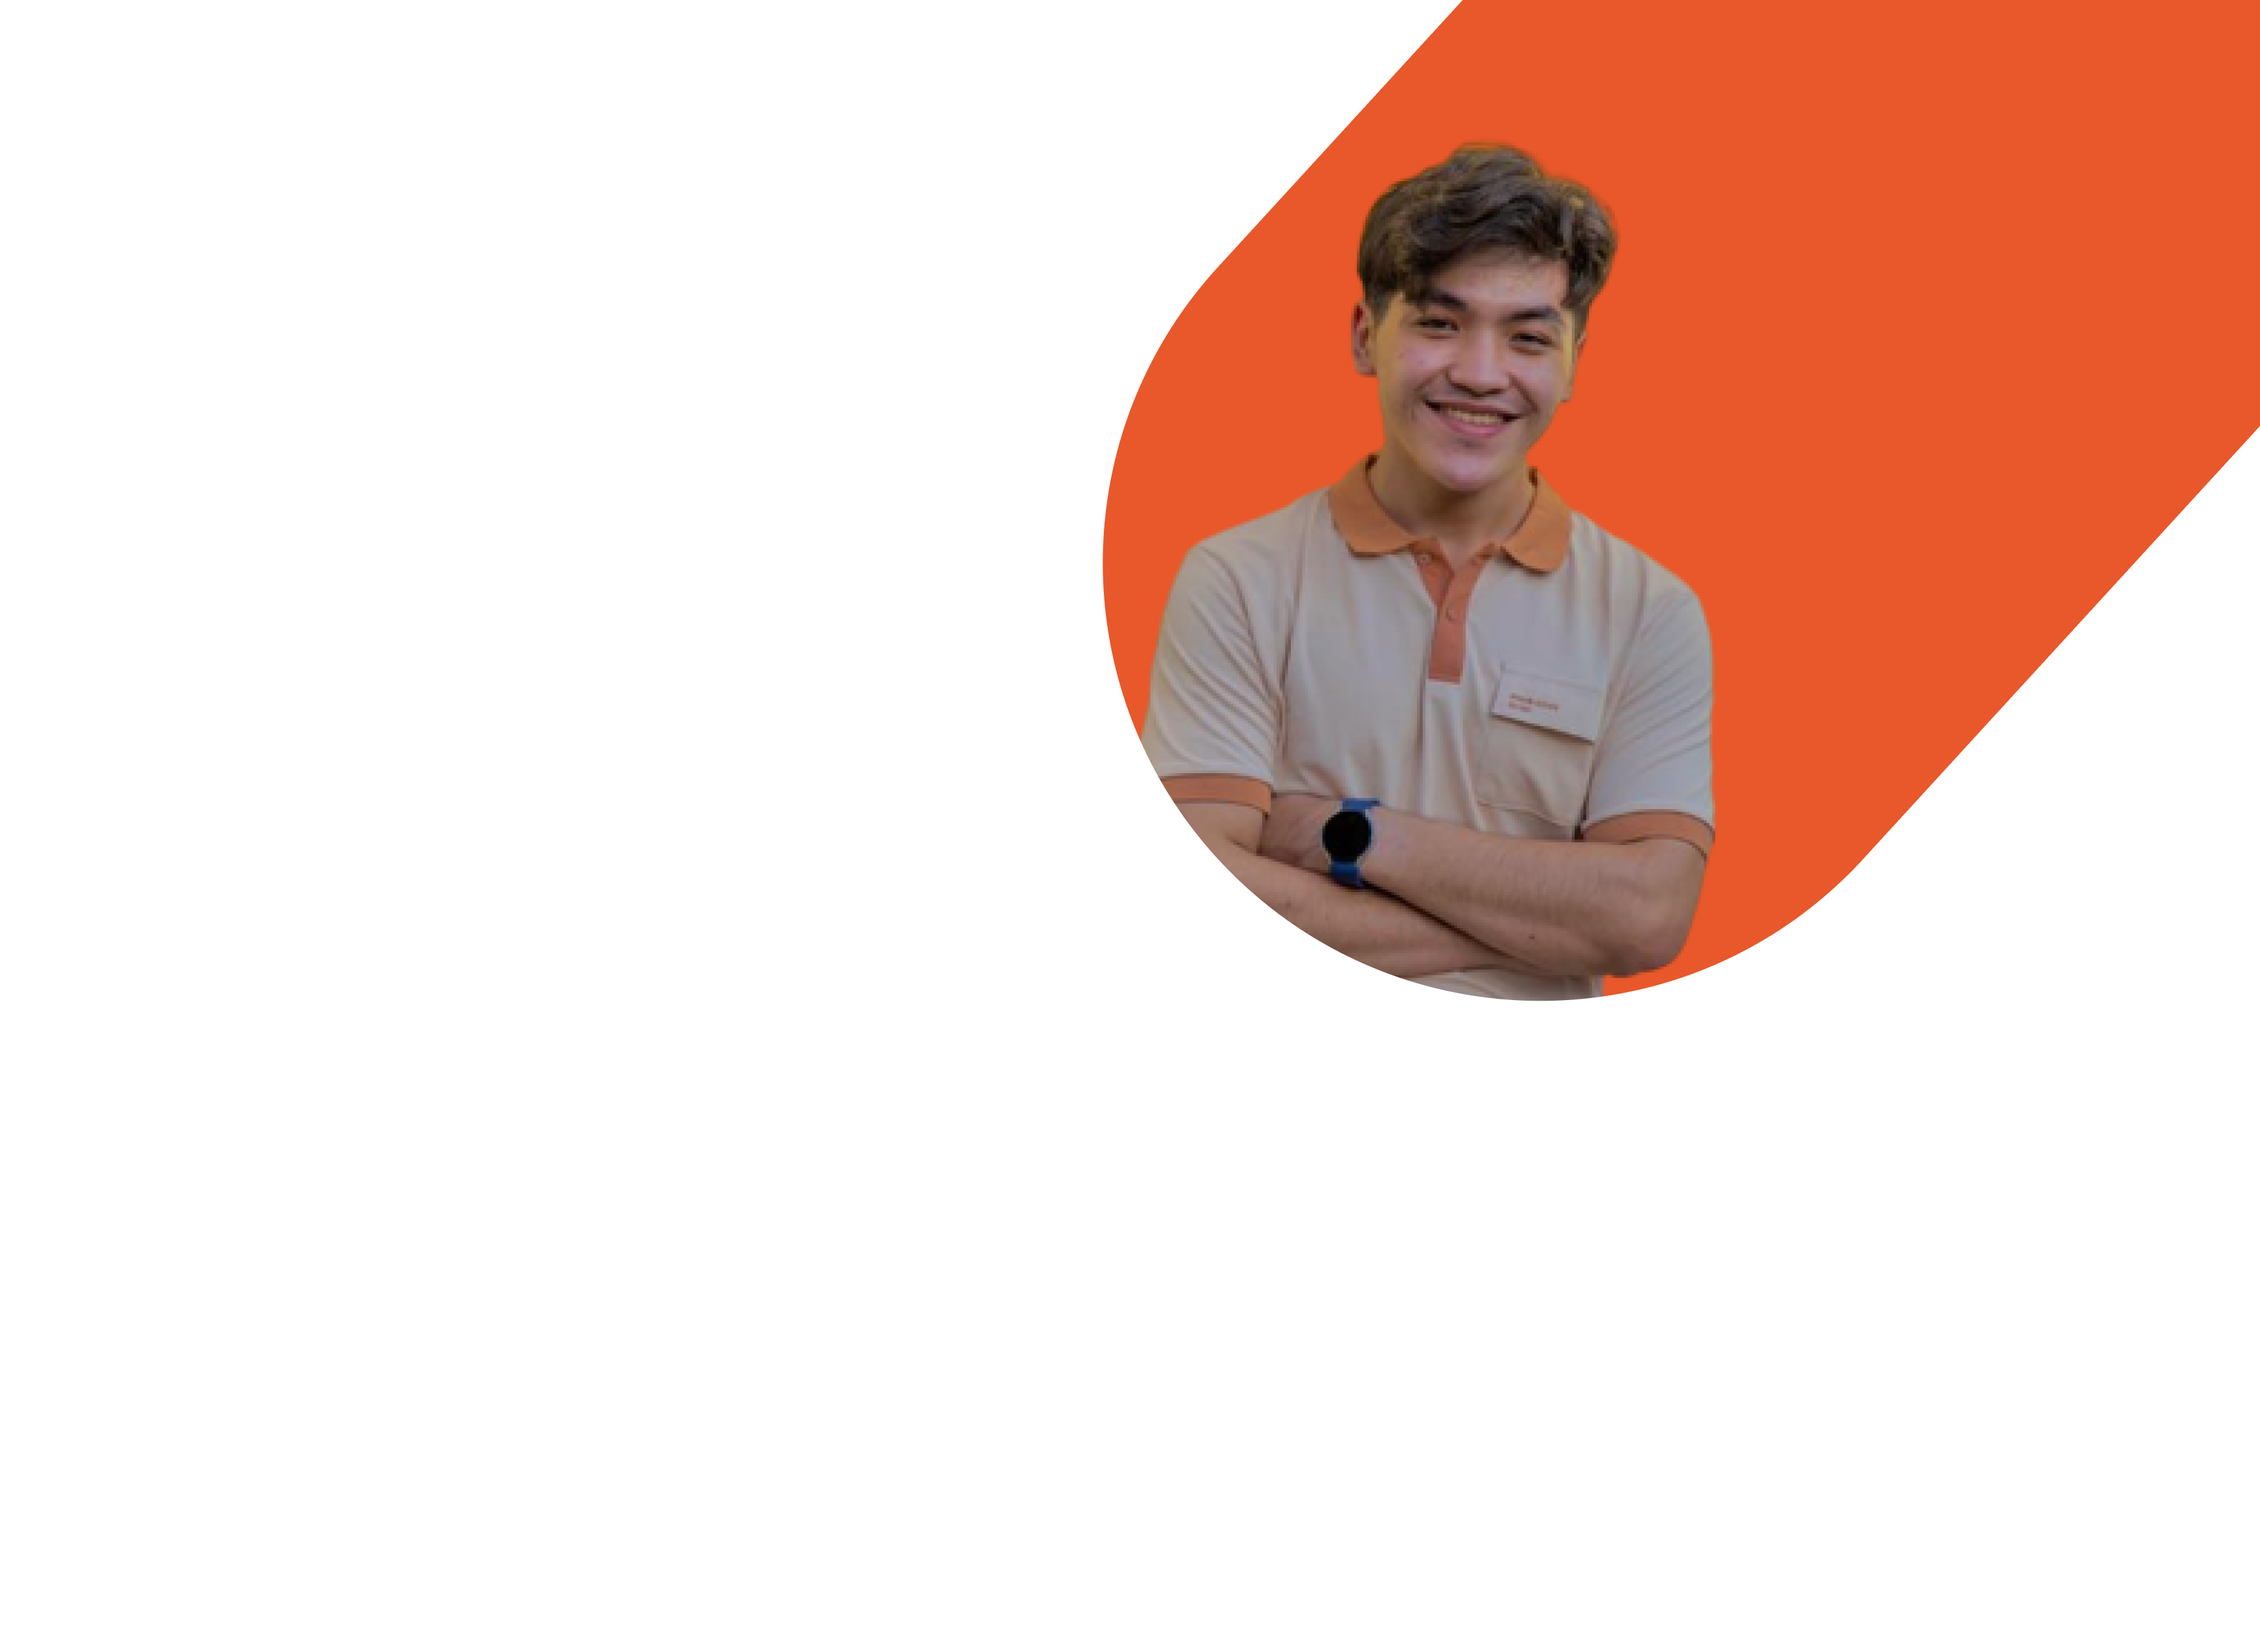
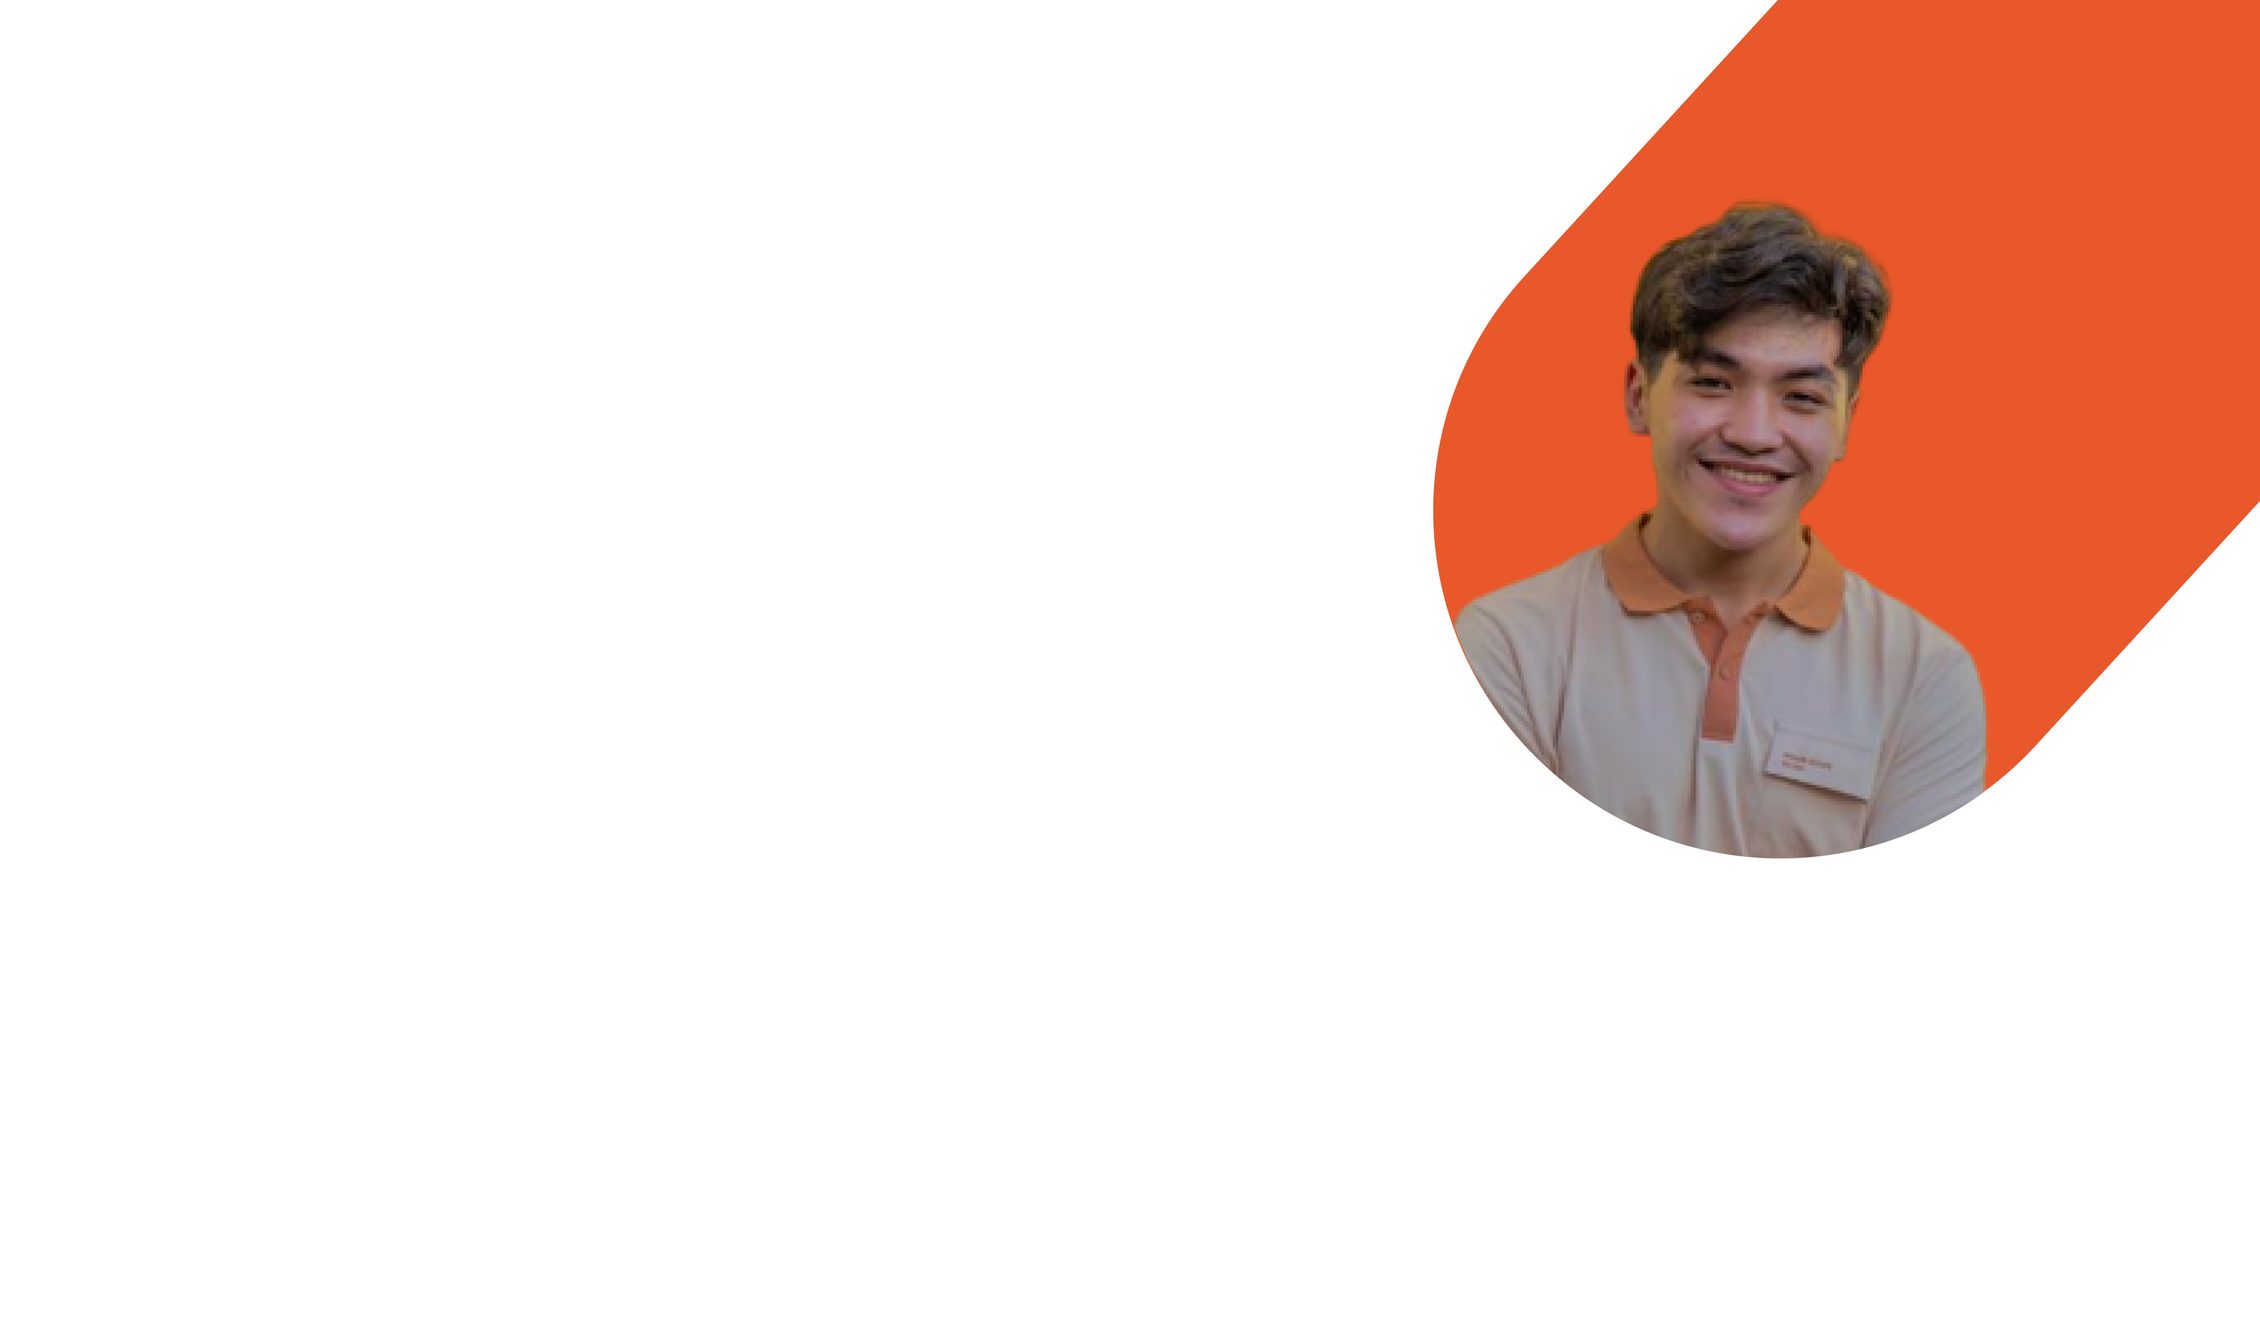
modify background and layout

Changed region(s): [[0.4688, 0.0, 1.0, 0.6537]]

diff --git a/src/app/page.tsx b/src/app/page.tsx
@@ -10,7 +10,7 @@ export default function Home() {
           <p className="text-6xl font-regular text-black">
             My name is <b>Phat</b>
           </p>
-          <p className="text-slate-400 text-sm mt-5">
+          <p className="text-slate-600 text-sm mt-5">
             I am a fullstack developer with more than 3 years of experience
           </p>
 
@@ -26,7 +26,7 @@ export default function Home() {
 
           <div className="w-full mt-20">
             <div className="flex gap-3">
-              <div className="bg-[#EBEBEB] rounded-md text-black text-lg px-6 py-2">
+              <div className="bg-[#EDEDED] rounded-md text-black text-lg px-6 py-2">
                 javascript
               </div>
               <div className="bg-[#4D9AD5] rounded-md text-black text-lg px-6 py-2">
@@ -43,19 +43,22 @@ export default function Home() {
             </div>
           </div>
         </div>
+
+        <div className="flex flex-col sm:flex-grow w-full  sm:w-1/3"></div>
         <div
           className={classNames({
             "flex flex-col": true,
             "mt-[100px] mb-[30px] text-center": true,
             "sm:mt-0 sm:mb-0 sm:text-left": true,
-            "sm:flex-grow w-full sm:w-1/3 sm:justify-center sm:items-center":
-              true,
+            "sm:flex-grow w-full sm:w-1/3 sm:justify-end ": true,
+            relative: true,
           })}
         >
           <div
             className={classNames({
-              "bg-[#241F21] px-5  py-3": true,
+              "bg-[#241F21] px-8  py-3 max-w-max": true,
               "rounded-[15px]": true,
+              "absolute bottom-[50px] left-[-50px]": true,
             })}
           >
             <p
@@ -74,7 +77,6 @@ export default function Home() {
             </p>
           </div>
         </div>
-        <div className="flex flex-col sm:flex-grow w-full  sm:w-1/3"></div>
       </div>
 
       <div className="w-full mt-20">

diff --git a/src/app/layout.tsx b/src/app/layout.tsx
@@ -1,9 +1,9 @@
 import { NavBar } from "./components/NavBar";
 import DashBoardLayout from "./components/layouts/DashboardLayout";
 import "./globals.css";
-import { Inter } from "next/font/google";
+import { Noto_Sans_JP } from "next/font/google";
 
-const inter = Inter({ subsets: ["latin"] });
+const font = Noto_Sans_JP({ subsets: ["vietnamese"] });
 
 export const metadata = {
   title: "Phat's portfolio",
@@ -23,7 +23,7 @@ export default function RootLayout({
       <head>
         <title>Phat&apos;s Portfolio</title>
       </head>
-      <body className={inter.className} style={{ backgroundColor: "white" }}>
+      <body className={font.className} style={{ backgroundColor: "white" }}>
         <DashBoardLayout>{children}</DashBoardLayout>
       </body>
     </html>
